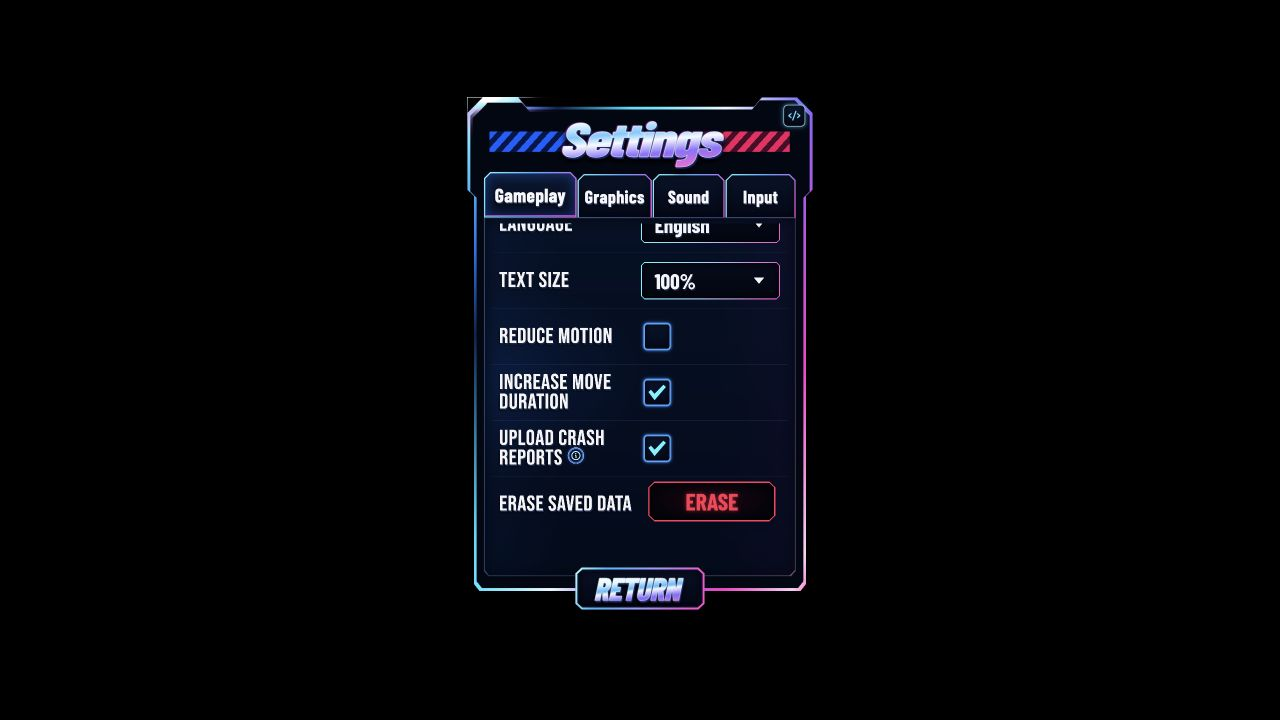
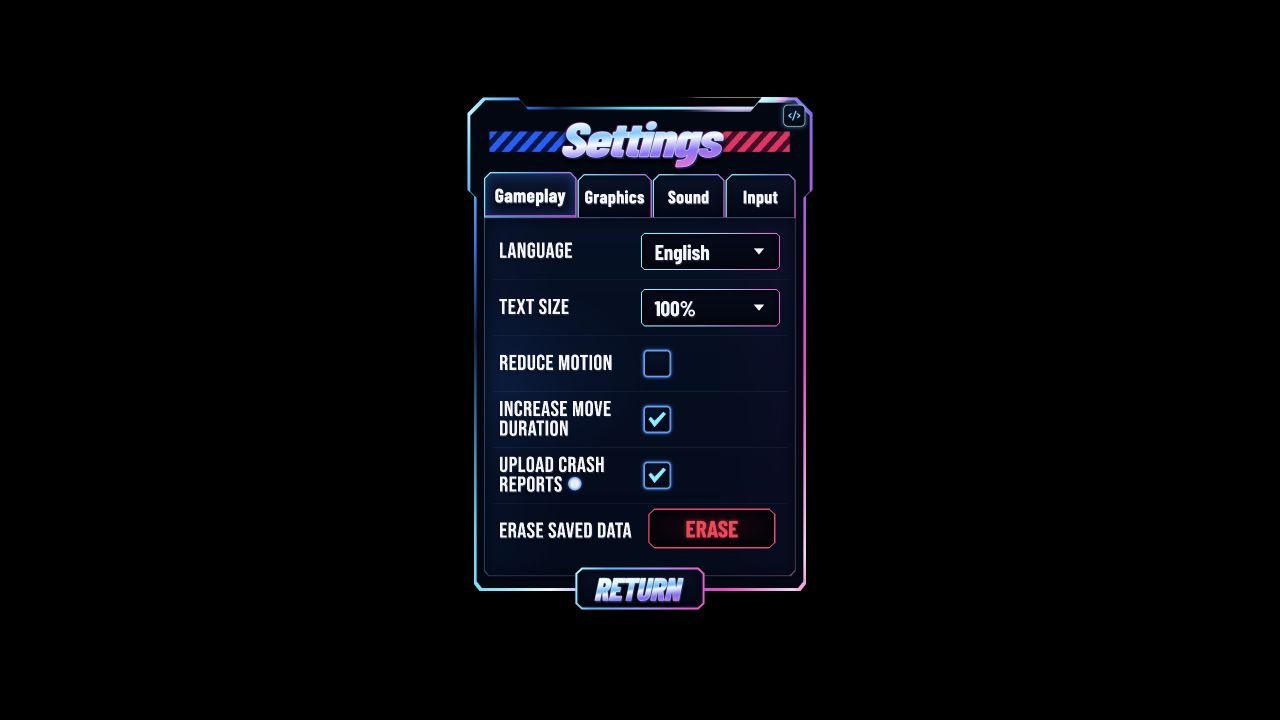
fix: restore original crash report info control

diff --git a/app/components/SettingsControls.tsx b/app/components/SettingsControls.tsx
@@ -2,7 +2,6 @@
 
 import { useEffect, useId, useRef, useState, type KeyboardEvent, type ReactNode } from "react";
 import { AnimatePresence, motion, useReducedMotion } from "framer-motion";
-import { InfoIcon } from "@phosphor-icons/react/dist/csr/Info";
 import { ArcadeButtonEffect } from "./ArcadeButtonEffect";
 import {
   actionInnerClip,
@@ -509,11 +508,7 @@ export function ToggleControl({
   const checkboxSize = 77 * controlScale;
 
   return (
-    <div
-      onClick={(event) => {
-        if ((event.target as HTMLElement).closest("button, input")) return;
-        onChange(!checked);
-      }}
+    <label
       style={{
         display: "block",
         height: rowHeight,
@@ -607,7 +602,7 @@ export function ToggleControl({
           We upload crash reports to Unity Diagnostics.
         </ScreenReaderOnly>
       )}
-    </div>
+    </label>
   );
 }
 
@@ -729,24 +724,26 @@ function InfoBadge({ onClick }: { onClick?: () => void }) {
         left: 205 * fontScale,
         bottom: 37,
         boxSizing: "border-box",
-        minWidth: 44 * controlScale,
-        width: 44 * controlScale,
-        height: 44 * controlScale,
+        width: 38 * controlScale,
+        height: 38 * controlScale,
         display: "grid",
         placeItems: "center",
-        border: "3px solid #55b8ff",
+        border: "2px solid #55b8ff",
         borderRadius: "50%",
         color: "#bcf4ff",
-        background: "rgba(3,13,34,.94)",
+        fontFamily: "Georgia, serif",
+        fontSize: 27 * controlScale,
+        fontStyle: "normal",
+        fontWeight: 700,
+        lineHeight: 1,
+        textTransform: "lowercase",
         boxShadow: "0 0 8px #155eff, inset 0 0 7px rgba(13,76,180,.8)",
         transform: "translateY(1px) scaleX(.957)",
         padding: 0,
-        appearance: "none",
-        WebkitAppearance: "none",
         cursor: "pointer",
       }}
     >
-      <InfoIcon aria-hidden="true" size={31 * controlScale} weight="bold" />
+      i
     </button>
   );
 }
